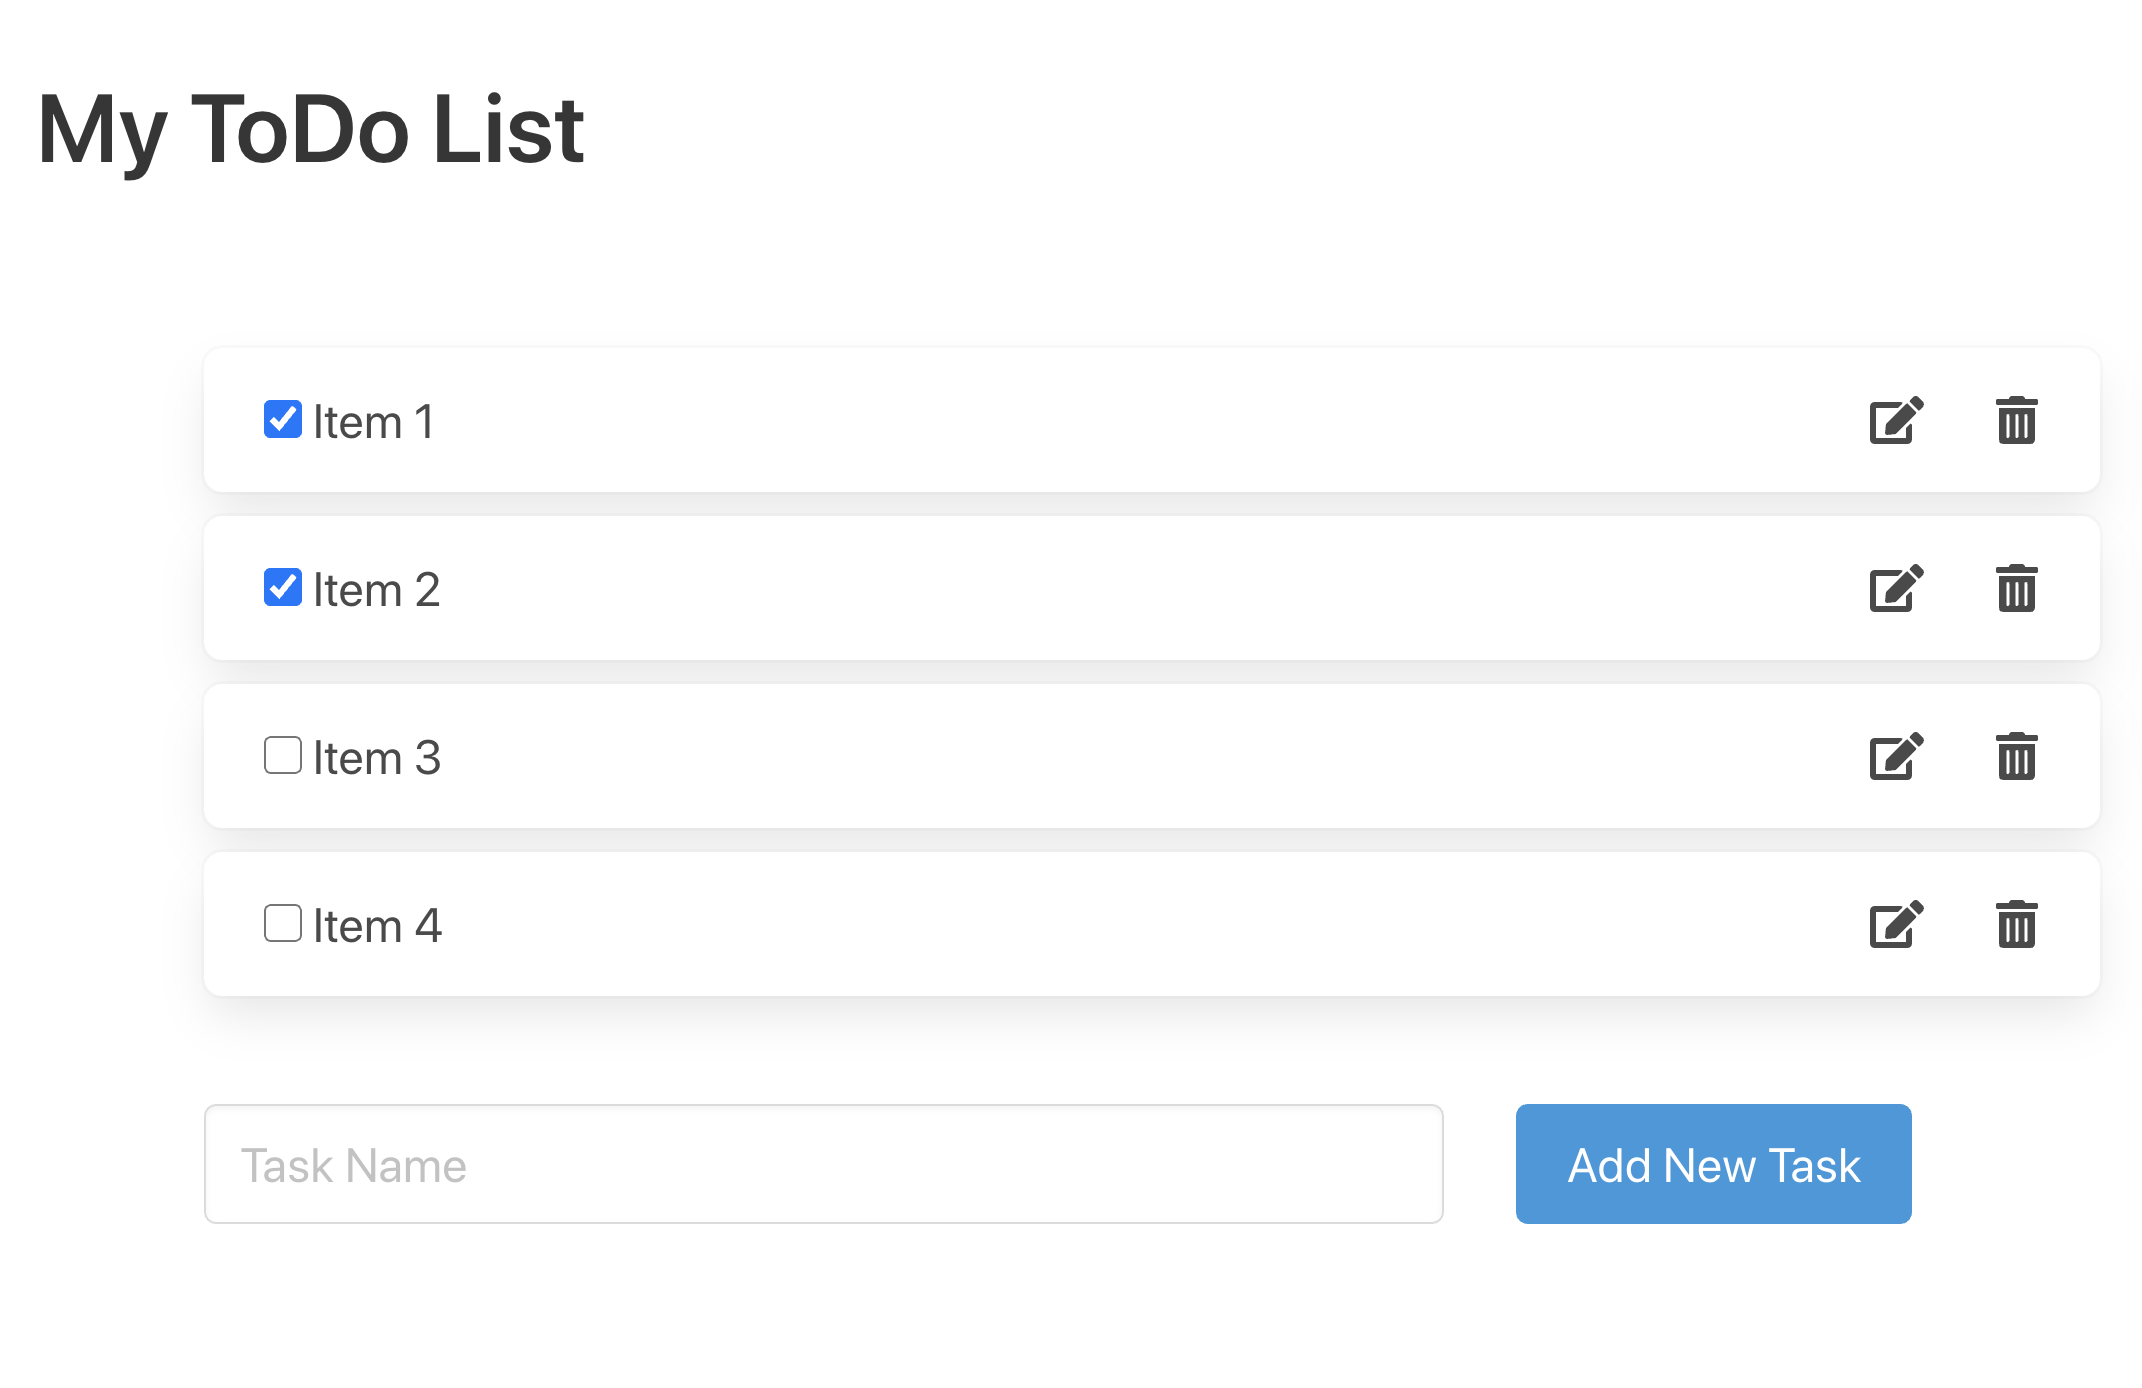
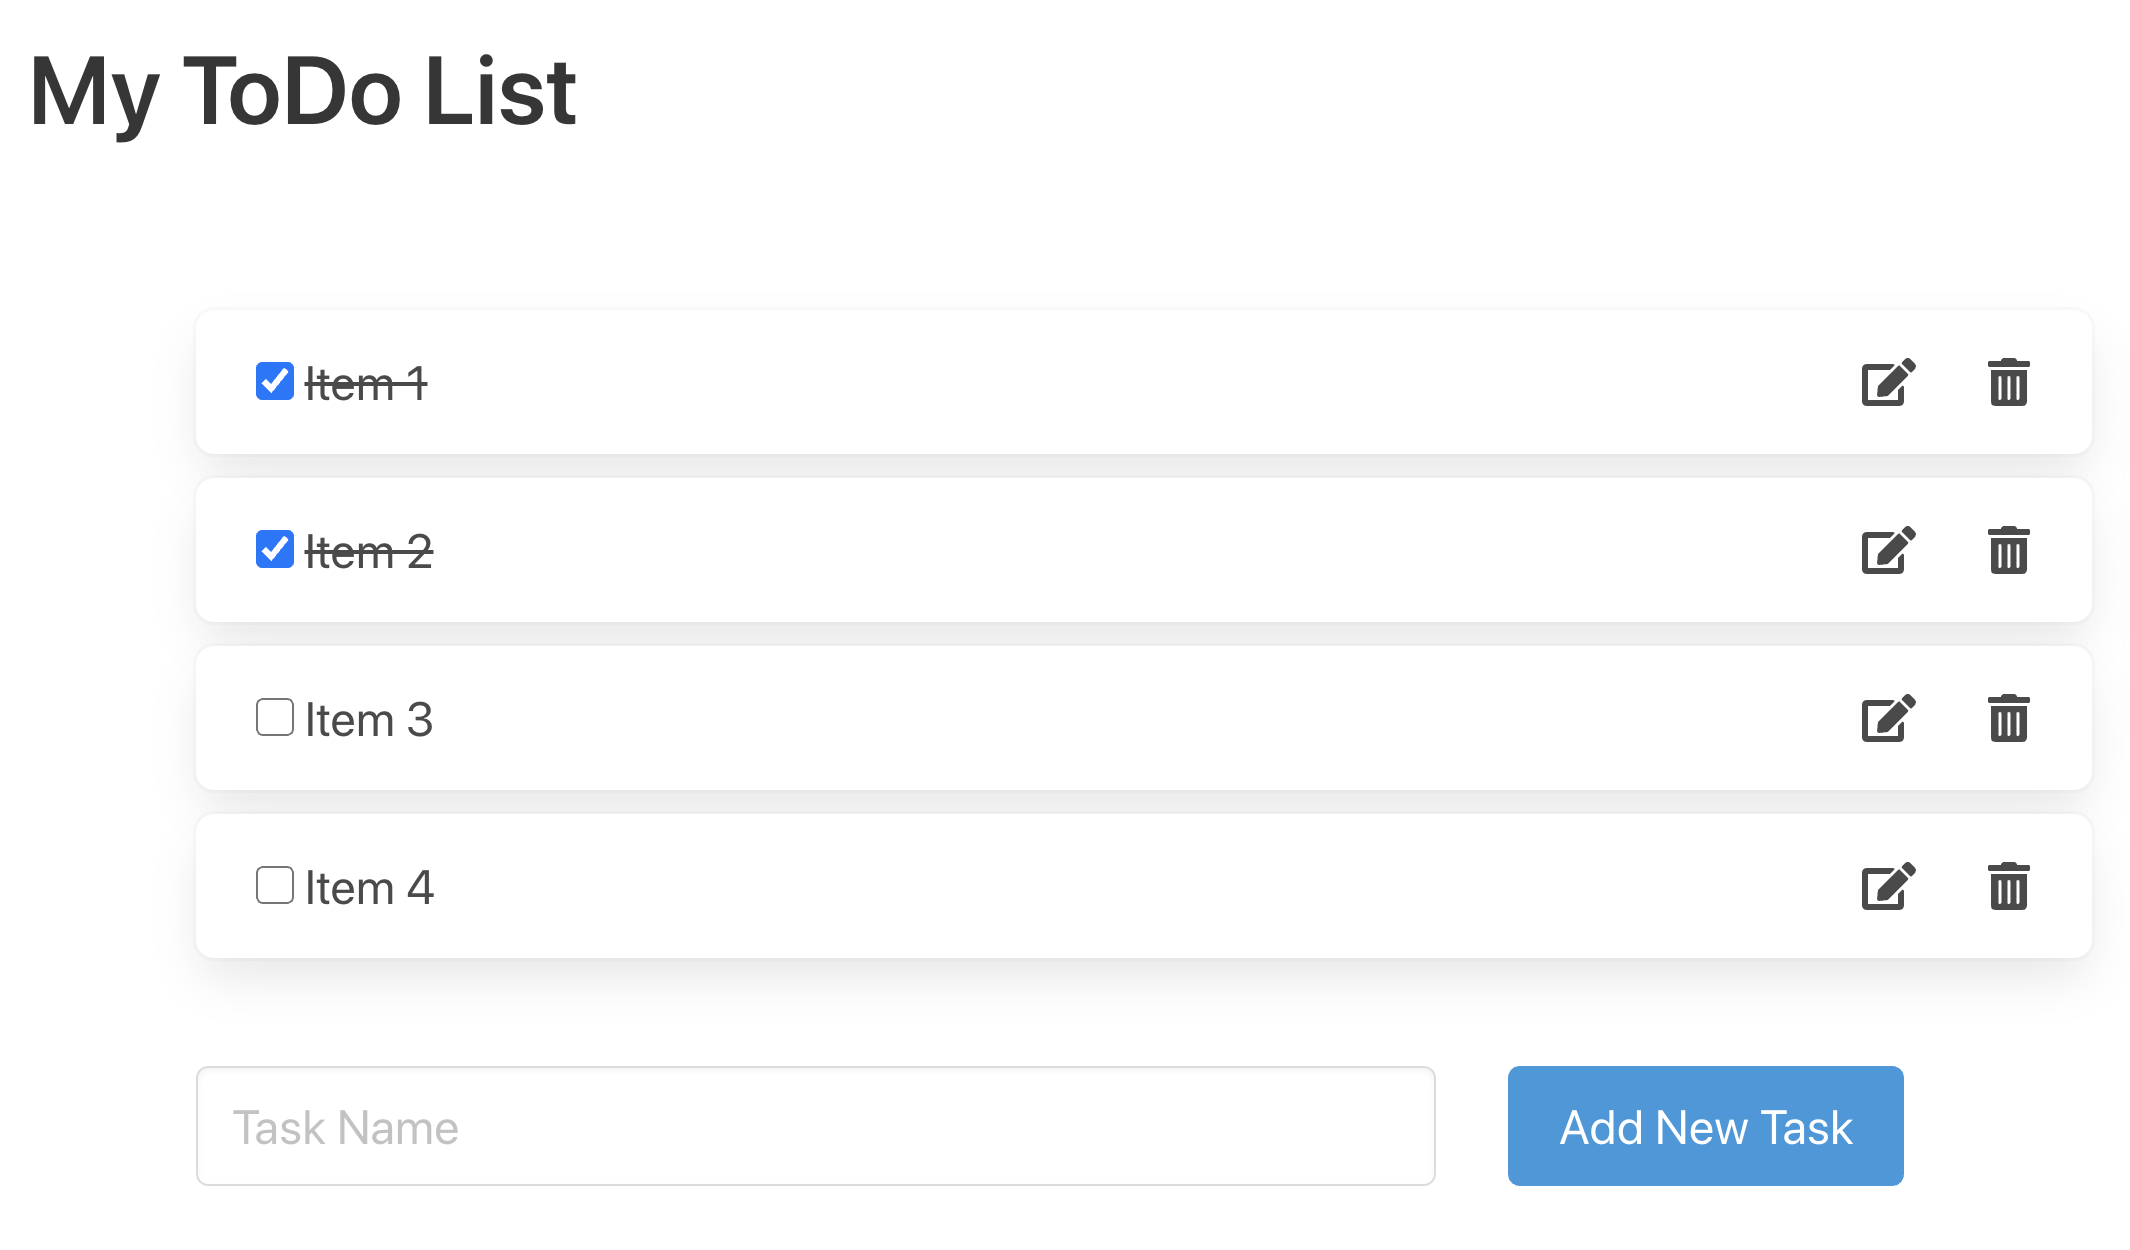
Update question 1

diff --git a/README.md b/README.md
@@ -1,7 +1,10 @@
 # TODO List App
 
 ### 1. ทำการสร้างหน้าเวบ My ToDo List โดยใช้ HTML และ Bulma CSS และ Vue JS ดังรูป
-- รายการ Task เป็น Checkbox และเมื่อติ้ก Checkbox จะเปลี่ยนสถานะของ Task เป็น "Completed"
+- รายการ Task เป็น Checkbox และเมื่อติ้ก Checkbox จะเปลี่ยนสถานะของ Task เป็น "Completed" และขีดฆ่าชื่อ Task นั้น
+```
+style="text-decoration: line-through;"
+```
 - สามารถเพิ่มรายการใหม่เข้าไปได้โดยการพิมพ์ชื่อ Task ใน Textbox "Task Name" ด้านล่าง แล้วกดปุ่ม "Save"
 - โดย Default เมื่อสร้าง Task ขึ้นใหม่จะมีสถานะ "Incomplete" เสมอ
 
